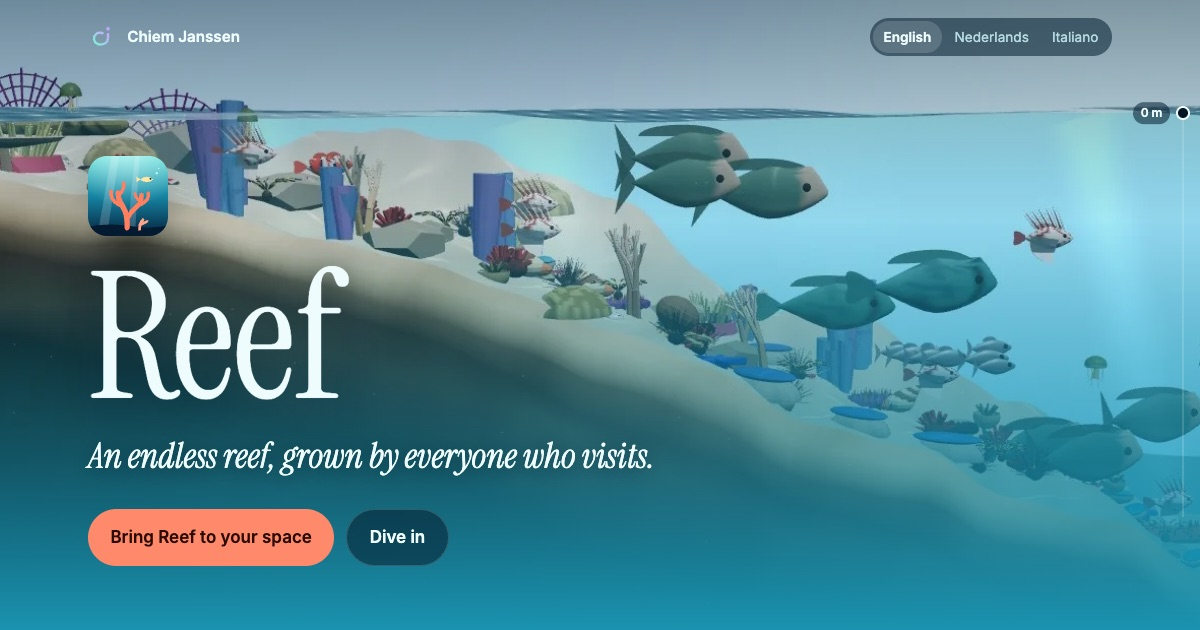
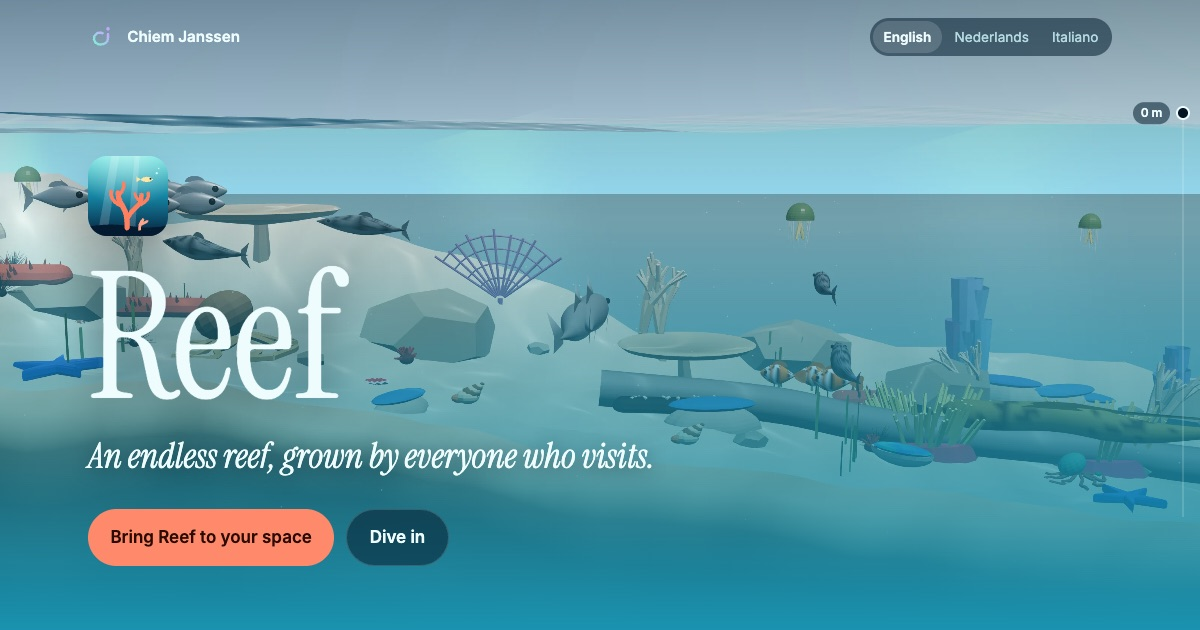
Sharper Reef hero, years and roles under involvement
- Reef hero and homepage card: a new 3200 px render of the reef without
  the app's controls, instead of an upscaled screenshot.
- Involvement newest first with the year each started; new Debugged
  text; D-care is Investor / Technical Lead.
- The tagline stays English in every language; the closing heading is
  a plain "Contact".

diff --git a/it/index.html b/it/index.html
@@ -37,7 +37,7 @@
 <section class="hero" data-field="ink">
 <p class="kicker">Ingegnere del software, Paesi Bassi</p>
 <h1>Chiem<br>Janssen</h1>
-<p class="tagline">Mente tecnica, mani creative.</p>
+<p class="tagline" lang="en">Technical mind, creative hands.</p>
 <a class="scroll-cue" href="#work">Guarda i lavori</a>
 </section>
 
@@ -62,21 +62,21 @@
 <p class="body">Una barriera corallina infinita che i visitatori fanno crescere insieme. Rispondi a qualche domanda e un vero animale della barriera arriva alla sua vera profondità. Prima la bellezza, poi ciò che facciamo all'acqua.</p>
 <a class="more" href="/reef/it/">Scopri Reef</a>
 </div>
-<div class="project-media"><div class="shot-wide"><img src="/reef/img/shallow.webp" width="1600" height="900" loading="lazy" alt="La barriera poco profonda in una giornata di sole"></div></div>
+<div class="project-media"><div class="shot-wide"><img src="/reef/img/reef-card.webp" width="1600" height="900" loading="lazy" alt="La barriera poco profonda in una giornata di sole"></div></div>
 </article>
 </section>
 
 <section class="block" data-field="warm">
 <h2 class="label">Dove sono coinvolto</h2>
 <ul class="roles">
-<li><a href="https://debugged.nl" rel="noopener"><span class="org">Debugged</span><span class="role">Co-fondatore</span><span class="what">Azienda di software a Eindhoven. Software su misura, app e cloud per aziende con una sfida digitale.</span></a></li>
-<li><a href="https://localeo.app" rel="noopener"><span class="org">Localeo</span><span class="role">Fondatore</span><span class="what">Traduzioni trattate come software. Il tuo team modifica e approva in un unico posto, poi pubblica un pacchetto versionato che la tua app scarica.</span></a></li>
-<li><a href="https://d-care.ai" rel="noopener"><span class="org">D-care</span><span class="role">Technical Lead</span><span class="what">AI e sensori che vegliano sulle scrofe giorno e notte, così gli allevatori di suini agiscono in tempo su calore e salute. Guido lo sviluppo e la consegna.</span></a></li>
+<li><a href="https://localeo.app" rel="noopener"><span class="org">Localeo<span class="since">Dal 2026</span></span><span class="role">Fondatore</span><span class="what">Traduzioni trattate come software. Il tuo team modifica e approva in un unico posto, poi pubblica un pacchetto versionato che la tua app scarica.</span></a></li>
+<li><a href="https://d-care.ai" rel="noopener"><span class="org">D-care<span class="since">Dal 2024</span></span><span class="role">Investitore / Technical Lead</span><span class="what">AI e sensori che vegliano sulle scrofe giorno e notte, così gli allevatori di suini agiscono in tempo su calore e salute. Guido lo sviluppo e la consegna.</span></a></li>
+<li><a href="https://debugged.nl" rel="noopener"><span class="org">Debugged<span class="since">Dal 2019</span></span><span class="role">Co-fondatore</span><span class="what">Automatizziamo e ottimizziamo i processi aziendali. Profondamente tecnici e al fianco dei nostri clienti, costruiamo insieme un prodotto migliore.</span></a></li>
 </ul>
 </section>
 
 <section class="contact" data-field="ink">
-<h2>Creiamo qualcosa.</h2>
+<h2>Contatti</h2>
 <a class="mail" href="mailto:chiemjanssen@gmail.com">chiemjanssen@gmail.com</a>
 </section>
 </main>

diff --git a/nl/index.html b/nl/index.html
@@ -37,7 +37,7 @@
 <section class="hero" data-field="ink">
 <p class="kicker">Software engineer, Nederland</p>
 <h1>Chiem<br>Janssen</h1>
-<p class="tagline">Technisch hoofd, creatieve handen.</p>
+<p class="tagline" lang="en">Technical mind, creative hands.</p>
 <a class="scroll-cue" href="#work">Bekijk het werk</a>
 </section>
 
@@ -62,21 +62,21 @@
 <p class="body">Een eindeloos rif dat bezoekers samen laten groeien. Beantwoord een paar vragen en een echt rifdier komt erbij, op zijn echte diepte. Eerst de schoonheid, dan wat wij met het water doen.</p>
 <a class="more" href="/reef/nl/">Ontdek Reef</a>
 </div>
-<div class="project-media"><div class="shot-wide"><img src="/reef/img/shallow.webp" width="1600" height="900" loading="lazy" alt="Het ondiepe rif op een zonnige dag"></div></div>
+<div class="project-media"><div class="shot-wide"><img src="/reef/img/reef-card.webp" width="1600" height="900" loading="lazy" alt="Het ondiepe rif op een zonnige dag"></div></div>
 </article>
 </section>
 
 <section class="block" data-field="warm">
 <h2 class="label">Betrokken bij</h2>
 <ul class="roles">
-<li><a href="https://debugged.nl" rel="noopener"><span class="org">Debugged</span><span class="role">Medeoprichter</span><span class="what">Softwarebedrijf in Eindhoven. Software op maat, apps en cloud voor bedrijven met een digitale uitdaging.</span></a></li>
-<li><a href="https://localeo.app" rel="noopener"><span class="org">Localeo</span><span class="role">Oprichter</span><span class="what">Vertalingen behandeld als software. Je team bewerkt en keurt goed op één plek en levert een geversioneerde bundel die je app ophaalt.</span></a></li>
-<li><a href="https://d-care.ai" rel="noopener"><span class="org">D-care</span><span class="role">Technical Lead</span><span class="what">AI en sensoren die dag en nacht over zeugen waken, zodat varkenshouders op tijd handelen bij tochtigheid en gezondheid. Ik leid de engineering en de oplevering.</span></a></li>
+<li><a href="https://localeo.app" rel="noopener"><span class="org">Localeo<span class="since">Sinds 2026</span></span><span class="role">Oprichter</span><span class="what">Vertalingen behandeld als software. Je team bewerkt en keurt goed op één plek en levert een geversioneerde bundel die je app ophaalt.</span></a></li>
+<li><a href="https://d-care.ai" rel="noopener"><span class="org">D-care<span class="since">Sinds 2024</span></span><span class="role">Investeerder / Technical Lead</span><span class="what">AI en sensoren die dag en nacht over zeugen waken, zodat varkenshouders op tijd handelen bij tochtigheid en gezondheid. Ik leid de engineering en de oplevering.</span></a></li>
+<li><a href="https://debugged.nl" rel="noopener"><span class="org">Debugged<span class="since">Sinds 2019</span></span><span class="role">Medeoprichter</span><span class="what">We automatiseren en optimaliseren bedrijfsprocessen. Technisch diep betrokken en zij aan zij met onze klanten bouwen we samen een beter product.</span></a></li>
 </ul>
 </section>
 
 <section class="contact" data-field="ink">
-<h2>Laten we iets maken.</h2>
+<h2>Contact</h2>
 <a class="mail" href="mailto:chiemjanssen@gmail.com">chiemjanssen@gmail.com</a>
 </section>
 </main>

diff --git a/index.html b/index.html
@@ -37,7 +37,7 @@
 <section class="hero" data-field="ink">
 <p class="kicker">Software engineer, the Netherlands</p>
 <h1>Chiem<br>Janssen</h1>
-<p class="tagline">Technical mind, creative hands.</p>
+<p class="tagline" lang="en">Technical mind, creative hands.</p>
 <a class="scroll-cue" href="#work">See the work</a>
 </section>
 
@@ -62,21 +62,21 @@
 <p class="body">An endless reef that visitors grow together. Answer a few questions and a real reef animal joins at its real depth. Beauty first, then what we do to the water.</p>
 <a class="more" href="/reef/">Discover Reef</a>
 </div>
-<div class="project-media"><div class="shot-wide"><img src="/reef/img/shallow.webp" width="1600" height="900" loading="lazy" alt="The shallow reef on a sunny day"></div></div>
+<div class="project-media"><div class="shot-wide"><img src="/reef/img/reef-card.webp" width="1600" height="900" loading="lazy" alt="The shallow reef on a sunny day"></div></div>
 </article>
 </section>
 
 <section class="block" data-field="warm">
 <h2 class="label">Involvement</h2>
 <ul class="roles">
-<li><a href="https://debugged.nl" rel="noopener"><span class="org">Debugged</span><span class="role">Co-founder</span><span class="what">Software company in Eindhoven. Custom software, apps and cloud for businesses with a digital challenge.</span></a></li>
-<li><a href="https://localeo.app" rel="noopener"><span class="org">Localeo</span><span class="role">Founder</span><span class="what">Translations treated like software. Your team edits and approves in one place, then ships a versioned bundle your app pulls.</span></a></li>
-<li><a href="https://d-care.ai" rel="noopener"><span class="org">D-care</span><span class="role">Technical Lead</span><span class="what">AI and sensors that watch over sows day and night, so pig farmers act on heat and health in time. I lead the engineering and its delivery.</span></a></li>
+<li><a href="https://localeo.app" rel="noopener"><span class="org">Localeo<span class="since">Since 2026</span></span><span class="role">Founder</span><span class="what">Translations treated like software. Your team edits and approves in one place, then ships a versioned bundle your app pulls.</span></a></li>
+<li><a href="https://d-care.ai" rel="noopener"><span class="org">D-care<span class="since">Since 2024</span></span><span class="role">Investor / Technical Lead</span><span class="what">AI and sensors that watch over sows day and night, so pig farmers act on heat and health in time. I lead the engineering and its delivery.</span></a></li>
+<li><a href="https://debugged.nl" rel="noopener"><span class="org">Debugged<span class="since">Since 2019</span></span><span class="role">Co-founder</span><span class="what">We automate and optimise business processes. Deeply technical and side by side with our clients, we build a better product together.</span></a></li>
 </ul>
 </section>
 
 <section class="contact" data-field="ink">
-<h2>Let's make something.</h2>
+<h2>Contact</h2>
 <a class="mail" href="mailto:chiemjanssen@gmail.com">chiemjanssen@gmail.com</a>
 </section>
 </main>

diff --git a/site.css b/site.css
@@ -131,10 +131,11 @@ section.block { padding: 5rem 0; }
   padding: 1.75rem 0; text-decoration: none;
 }
 @media (min-width: 800px) {
-  .roles a { grid-template-columns: 14rem 1fr 11rem; padding: 2.25rem 0; }
+  .roles a { grid-template-columns: 14rem 1fr 12rem; padding: 2.25rem 0; }
 }
 .roles .org { font: 400 clamp(2rem, 5vw, 3.2rem)/1 var(--serif); transition: color .2s; }
-.roles .role { grid-column: 2; grid-row: 1; justify-self: end; color: var(--muted); font-size: .8rem; letter-spacing: .16em; text-transform: uppercase; white-space: nowrap; }
+.roles .since { display: block; margin-top: .55rem; font: 400 .78rem/1 var(--sans); letter-spacing: .16em; text-transform: uppercase; color: var(--faint); }
+.roles .role { grid-column: 2; grid-row: 1; justify-self: end; text-align: right; max-width: 11rem; color: var(--muted); font-size: .8rem; line-height: 1.5; letter-spacing: .16em; text-transform: uppercase; }
 .roles .what { grid-column: 1 / -1; color: var(--muted); max-width: 40rem; }
 @media (min-width: 800px) {
   .roles .what { grid-column: 2; grid-row: 1; }

diff --git a/reef/index.html b/reef/index.html
@@ -35,7 +35,7 @@
 </div></header>
 <main>
 <section class="hero">
-<img src="/reef/img/hero.webp" width="1480" height="620" alt="">
+<img src="/reef/img/hero.webp" width="3200" height="1800" alt="">
 <div class="wrap">
 <img class="hero-logo" src="/reef/img/logo.svg" width="80" height="80" alt="">
 <h1>Reef</h1>

diff --git a/reef/it/index.html b/reef/it/index.html
@@ -35,7 +35,7 @@
 </div></header>
 <main>
 <section class="hero">
-<img src="/reef/img/hero.webp" width="1480" height="620" alt="">
+<img src="/reef/img/hero.webp" width="3200" height="1800" alt="">
 <div class="wrap">
 <img class="hero-logo" src="/reef/img/logo.svg" width="80" height="80" alt="">
 <h1>Reef</h1>

diff --git a/reef/nl/index.html b/reef/nl/index.html
@@ -35,7 +35,7 @@
 </div></header>
 <main>
 <section class="hero">
-<img src="/reef/img/hero.webp" width="1480" height="620" alt="">
+<img src="/reef/img/hero.webp" width="3200" height="1800" alt="">
 <div class="wrap">
 <img class="hero-logo" src="/reef/img/logo.svg" width="80" height="80" alt="">
 <h1>Reef</h1>
